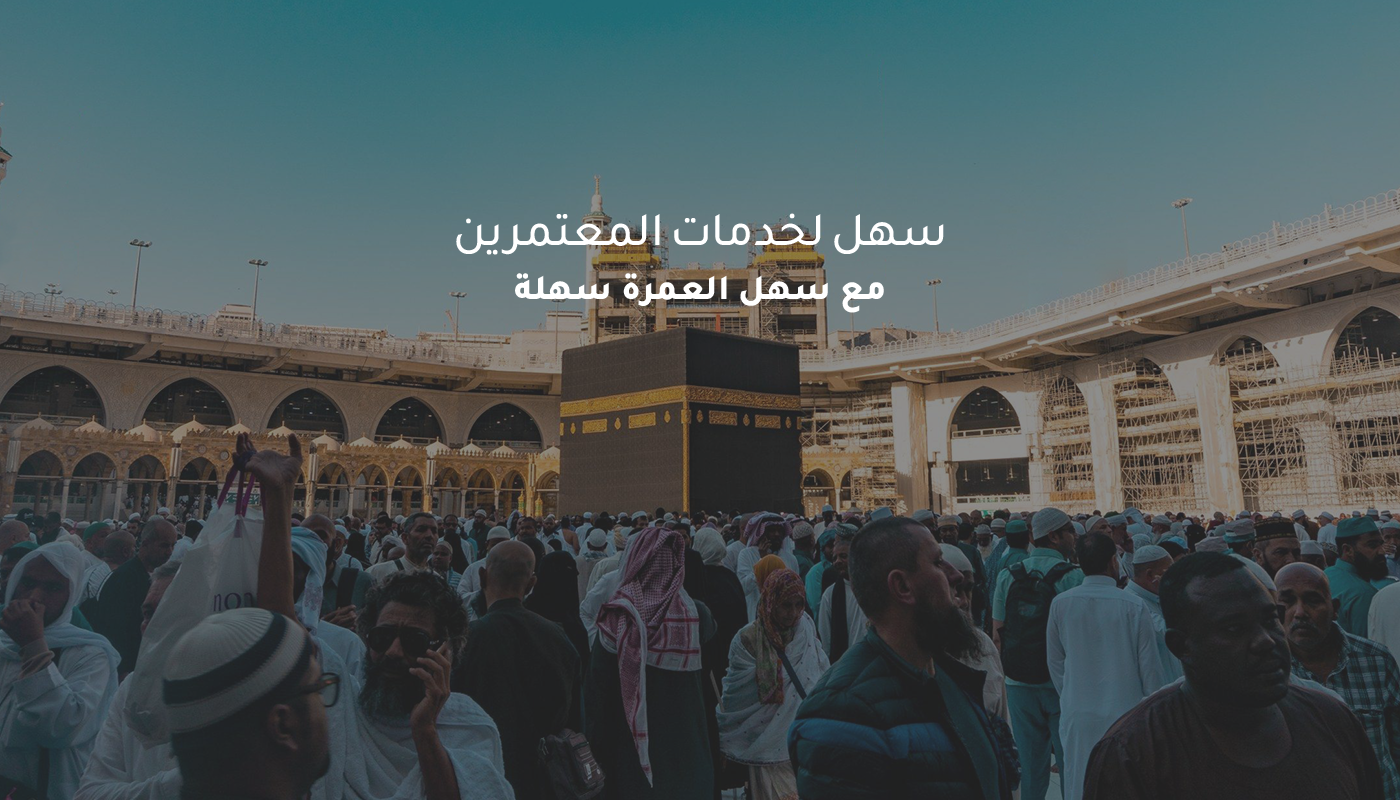
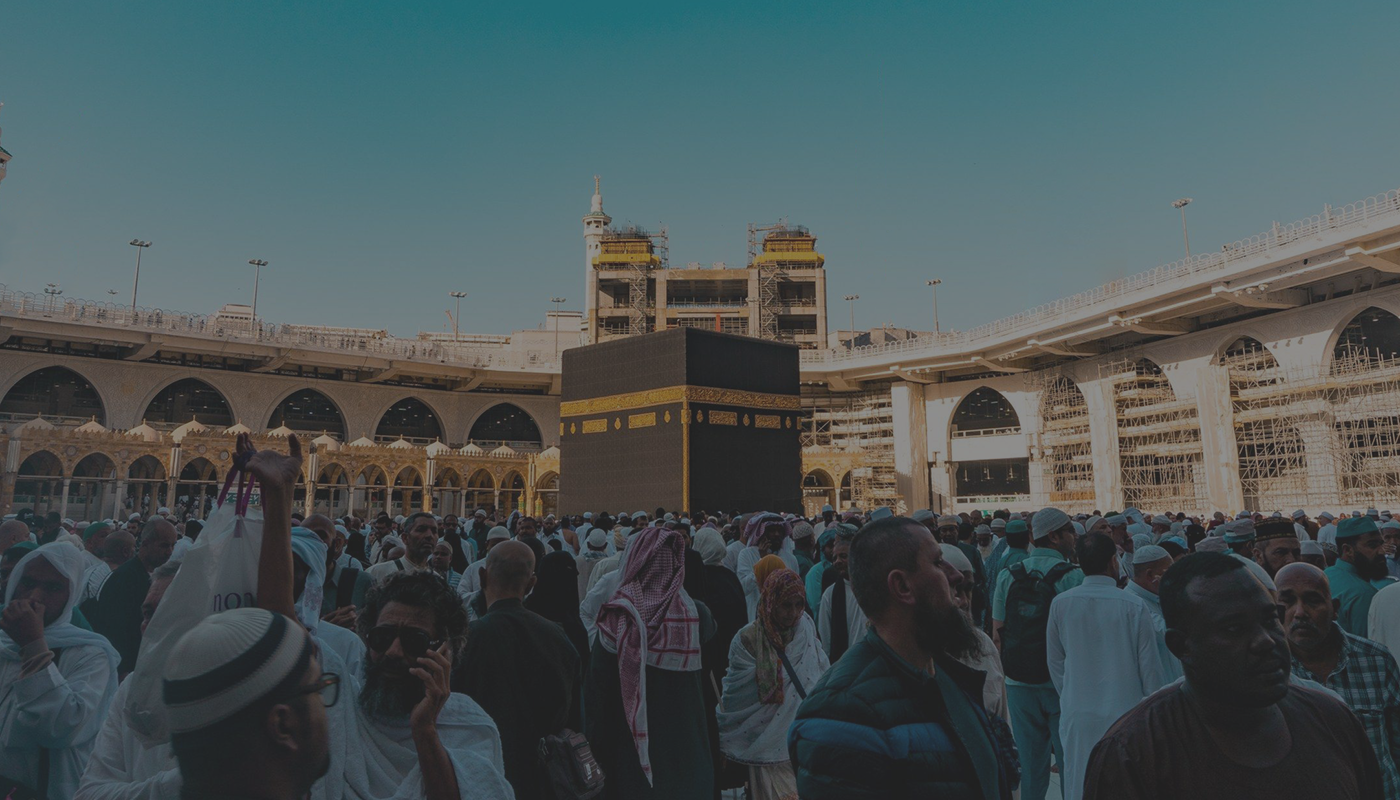
edit css

Changed region(s): [[0.3379, 0.2812, 0.6757, 0.3438], [0.3686, 0.3438, 0.645, 0.4062]]

diff --git a/style/main.css b/style/main.css
@@ -474,6 +474,35 @@ html[dir="ltr"] .drop_user{
 html[dir="ltr"] .div_img{
   flex-direction: row-reverse;
 }
+.text_big{
+  position: absolute;
+  transform: translateX(-50%);
+  -webkit-transform: translateX(-50%);
+  -moz-transform: translateX(-50%);
+  -ms-transform: translateX(-50%);
+  -o-transform: translateX(-50%);
+  left: 50%;
+  width: 100%;
+  text-align: center;
+  top:25%;
+}
+.text_big h4{
+  font-size: 48px;
+  font-family: "Tajawal";
+  color: rgb(255, 255, 255);
+  font-weight: 500;
+  margin-bottom: 10px;
+  width: 100%;
+
+
+}
+.text_big h3{
+  font-size: 36px;
+  font-family: "Tajawal";
+  color: rgb(255, 255, 255);
+  font-weight: 700;
+  width: 100%;
+}
 
 .banner_btn {
   width: 212px;
@@ -553,14 +582,25 @@ html[dir="ltr"] .div_img{
 .div_img_parant {
   top: 70%;
 }
+.text_big{
+  top:25%;
+}
+.text_big h4{
+  font-size: 26px;
+  margin-bottom: 5px;
 
+}
+.text_big h3{
+  font-size: 20px;
+
+}
 }
 @media(max-width:576px){
   .big_banner .img_choose{
     width: 75px;
   }
   .div_img{
-    margin-bottom: 20px;
+    margin-bottom: 15px;
   }
   .banner_btn {
     width: 120px;
@@ -584,6 +624,18 @@ html[dir="ltr"] .div_img{
   100% {
       box-shadow: 0 0 0 0 rgba(3, 168, 124, 0);
   }
+}
+.text_big{
+  top: 24%;
+}
+.text_big h4{
+  font-size: 13px;
+  margin-bottom: 5px;
+
+}
+.text_big h3{
+  font-size: 12px;
+
 }
 }
 

diff --git a/index.html b/index.html
@@ -107,6 +107,10 @@
   <a href="#" class="anc-img">
     <img src="images/slider.png" class="img-background">
   </a>
+  <div class="text_big">
+    <h4 class="m_p_gh">سهل لخدمات المعتمرين</h4>
+    <h3 class="m_p_gh">مع سهل العمرة سهلة</h3>
+  </div>
   <div class="div_img_parant">
     <div class="div_img">
         <img class="img_choose" src="images/text_right.png">

diff --git a/en.html b/en.html
@@ -105,6 +105,10 @@
   <a href="#" class="anc-img">
     <img src="images/slider.png" class="img-background">
   </a>
+  <div class="text_big">
+    <h4 class="m_p_gh">Sahel for Umrah Services</h4>
+    <h3 class="m_p_gh">Easy Umrah Easy </h3>
+  </div>
   <div class="div_img_parant">
     <div class="div_img">
         <img class="img_choose" src="images/text_right.png">
